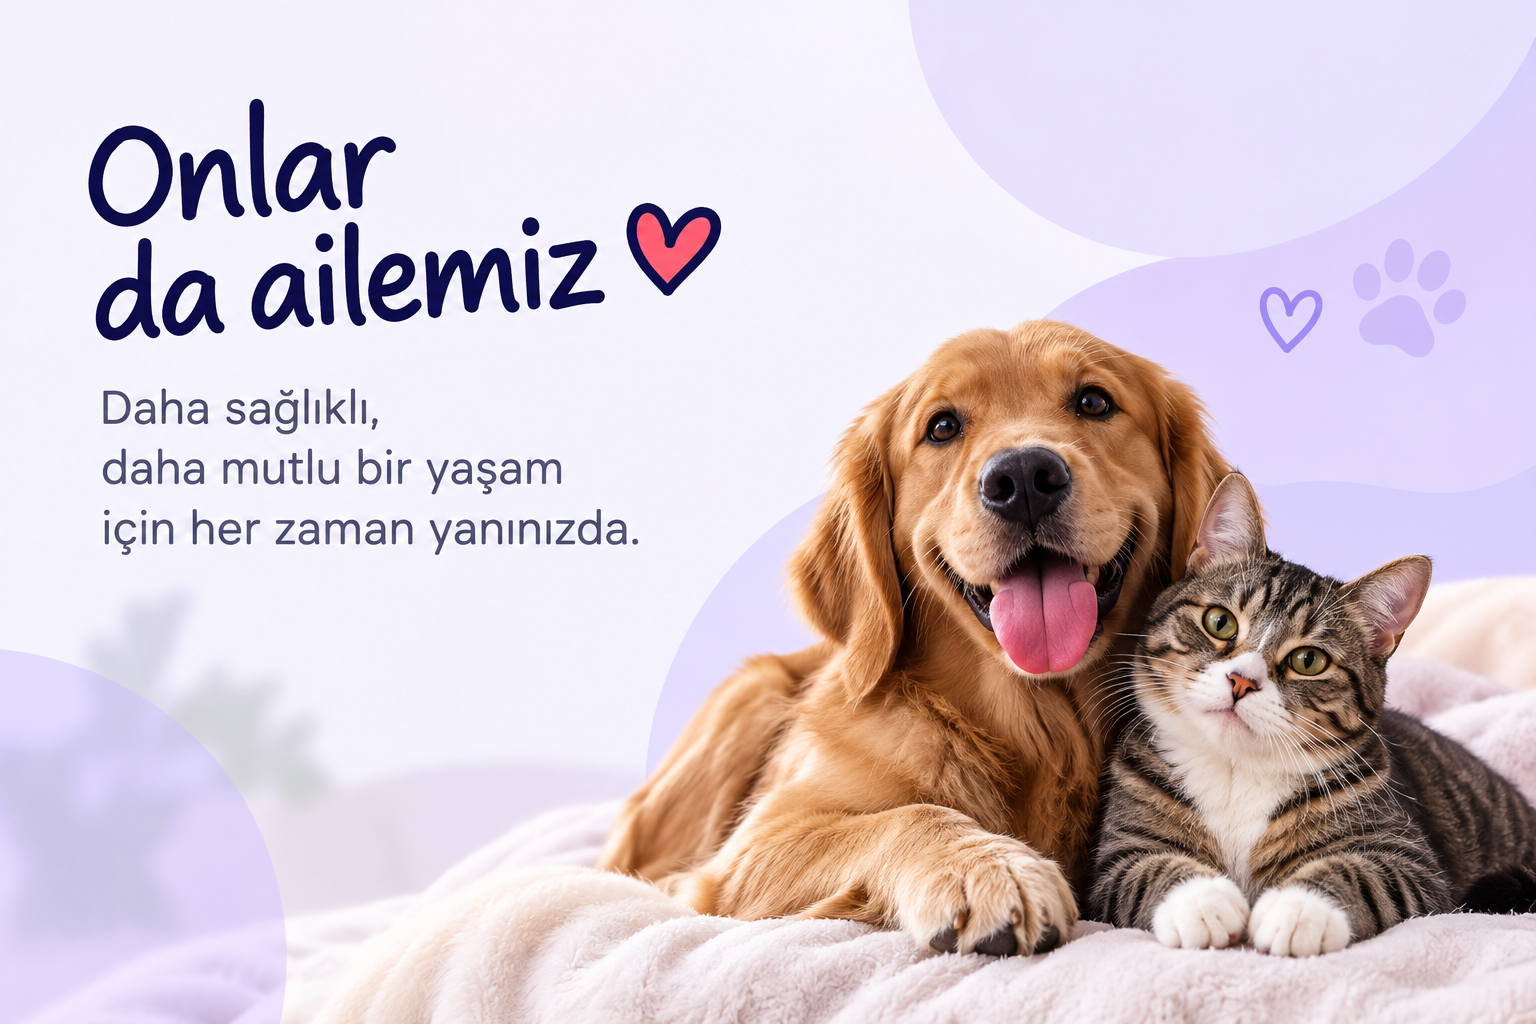
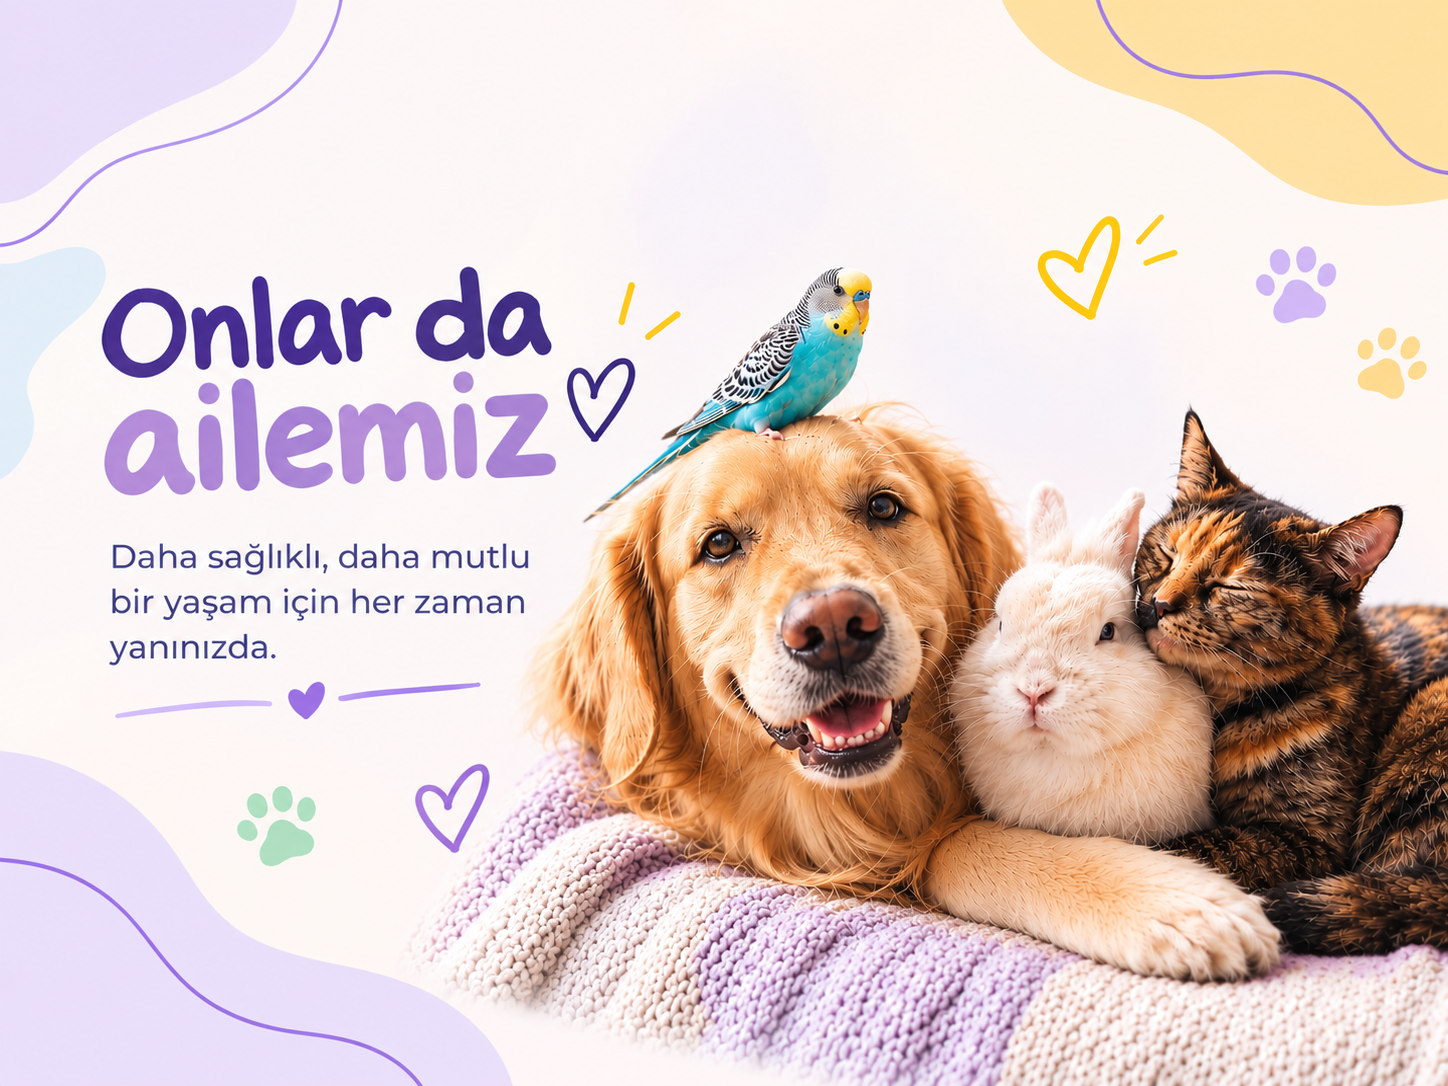
Update home tip image and layout styling
Replaces the home tip illustration from cat to turtle by removing `tip-cat.png`, adding `tip-turtle.png`, and updating the `HomeScreen` image import. It also refreshes visuals by updating the hero image and adjusts tip card spacing/layering and image positioning/sizing so the new artwork fits correctly.

diff --git a/src/screens/HomeScreen.tsx b/src/screens/HomeScreen.tsx
@@ -491,7 +491,7 @@ export default function HomeScreen() {
           </View>
           <View style={styles.tipCatArea}>
             <Image
-              source={require('../assets/images/home/tip-cat.png')}
+              source={require('../assets/images/home/tip-turtle.png')}
               style={styles.tipCatImage}
               resizeMode="contain"
             />
@@ -902,8 +902,8 @@ const styles = StyleSheet.create({
   },
   tipContent: {
     flex: 1,
-    zIndex: 3,
-    paddingRight: 63,
+    zIndex: 5,
+    paddingRight: 78,
   },
   tipTitle: {
     fontSize: 15.5,
@@ -921,17 +921,17 @@ const styles = StyleSheet.create({
   },
   tipCatArea: {
     position: 'absolute',
-    right: 0,
-    bottom: -25,
-    width: 125,
-    height: 120,
+    right: -2,
+    bottom: -20,
+    width: 105,
+    height: 105,
     justifyContent: 'flex-end',
     alignItems: 'flex-end',
     zIndex: 4,
   },
   tipCatImage: {
-    width: 200,
-    height: 150,
+    width: 145,
+    height: 115,
   },
   /* ANLIK KAYARAK GELEN BİLDİRİM BALONU (TOAST) */
   topBanner: {
